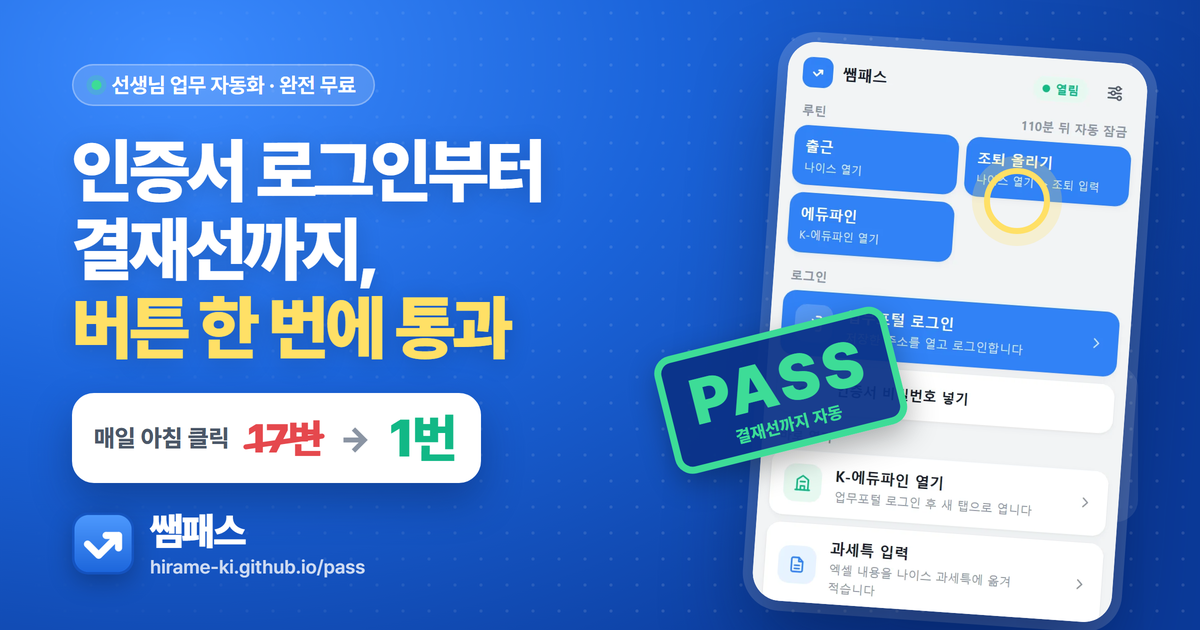
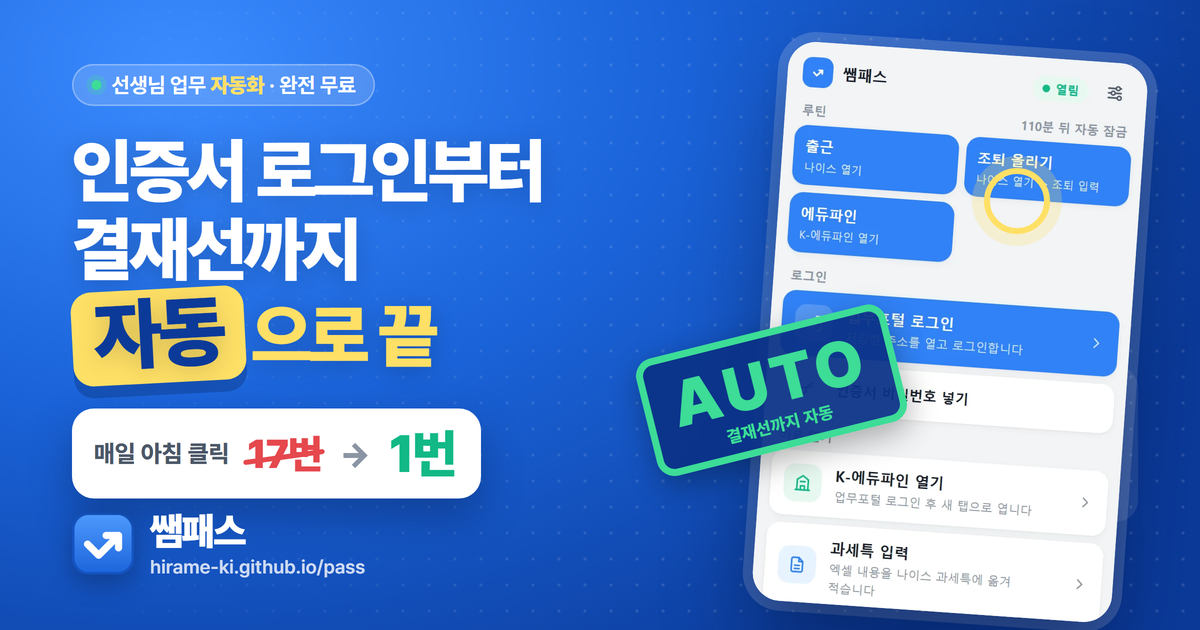
쌤패스 0.14.0 소개 페이지·업데이트 파일

diff --git a/pass/index.html b/pass/index.html
@@ -3,9 +3,9 @@
 <head>
 <meta charset="utf-8">
 <meta name="viewport" content="width=device-width, initial-scale=1">
-<title>쌤패스 — 인증서 로그인부터 결재선까지, 버튼 한 번에 통과</title>
-<meta name="description" content="인증서 로그인부터 시간외근무·조퇴 결재선 지정, 과세특 엑셀 입력까지. 매일 아침 클릭 17번을 1번으로 줄여 주는 선생님용 무료 도구. [상신]·[저장]은 선생님이 직접.">
-<meta name="keywords" content="쌤패스, 나이스, 업무포털, 인증서 로그인, 시간외근무, 조퇴, 복무, 과세특, 세특, 엑셀, K-에듀파인, 교사, 선생님, 업무 자동화">
+<title>[자동] 인증서 로그인부터 결재선까지, 버튼 한 번에 — 쌤패스</title>
+<meta name="description" content="업무포털 자동 로그인, 시간외근무·조퇴 자동 신청(결재선 지정까지), 과세특 엑셀 자동 입력. 매일 아침 클릭 17번을 1번으로 줄여 주는 선생님용 무료 업무 자동화 도구. [상신]·[저장]은 선생님이 직접.">
+<meta name="keywords" content="쌤패스, 업무 자동화, 자동 로그인, 나이스 자동화, 나이스, 업무포털, 인증서 로그인, 시간외근무, 조퇴, 복무, 과세특, 세특, 엑셀, K-에듀파인, 교사, 선생님, 업무 자동화">
 <meta name="author" content="hirame.ki">
 <meta name="theme-color" content="#1b64da">
 <link rel="canonical" href="https://hirame-ki.github.io/pass/">
@@ -15,19 +15,19 @@
 <meta property="og:site_name" content="쌤패스">
 <meta property="og:locale" content="ko_KR">
 <meta property="og:url" content="https://hirame-ki.github.io/pass/">
-<meta property="og:title" content="쌤패스 — 인증서 로그인부터 결재선까지, 버튼 한 번에 통과">
-<meta property="og:description" content="매일 아침 클릭 17번 → 1번. 업무포털 자동 로그인, 시간외근무·조퇴 신청, 과세특 엑셀 입력까지. 선생님을 위한 완전 무료 도구.">
+<meta property="og:title" content="[자동] 인증서 로그인부터 결재선까지, 버튼 한 번에 — 쌤패스">
+<meta property="og:description" content="자동 로그인 → 자동 복무 신청(결재선 지정까지) → 과세특 자동 입력. 매일 아침 클릭 17번이 1번으로. 선생님을 위한 완전 무료 업무 자동화 도구.">
 <meta property="og:image" content="https://hirame-ki.github.io/pass/og.png">
 <meta property="og:image:secure_url" content="https://hirame-ki.github.io/pass/og.png">
 <meta property="og:image:type" content="image/png">
 <meta property="og:image:width" content="1200">
 <meta property="og:image:height" content="630">
-<meta property="og:image:alt" content="쌤패스: 인증서 로그인부터 결재선까지 버튼 한 번에 통과. 매일 아침 클릭 17번에서 1번으로.">
+<meta property="og:image:alt" content="쌤패스: 인증서 로그인부터 결재선까지 자동으로, 버튼 한 번에. 매일 아침 클릭 17번에서 1번으로.">
 
 <!-- X(트위터) -->
 <meta name="twitter:card" content="summary_large_image">
-<meta name="twitter:title" content="쌤패스 — 인증서 로그인부터 결재선까지, 버튼 한 번에 통과">
-<meta name="twitter:description" content="매일 아침 클릭 17번 → 1번. 선생님을 위한 완전 무료 업무 도구.">
+<meta name="twitter:title" content="[자동] 인증서 로그인부터 결재선까지, 버튼 한 번에 — 쌤패스">
+<meta name="twitter:description" content="자동 로그인 · 자동 복무 신청 · 과세특 자동 입력. 매일 아침 클릭 17번 → 1번.">
 <meta name="twitter:image" content="https://hirame-ki.github.io/pass/og.png">
 <meta name="twitter:image:alt" content="쌤패스 공유 이미지">
 
